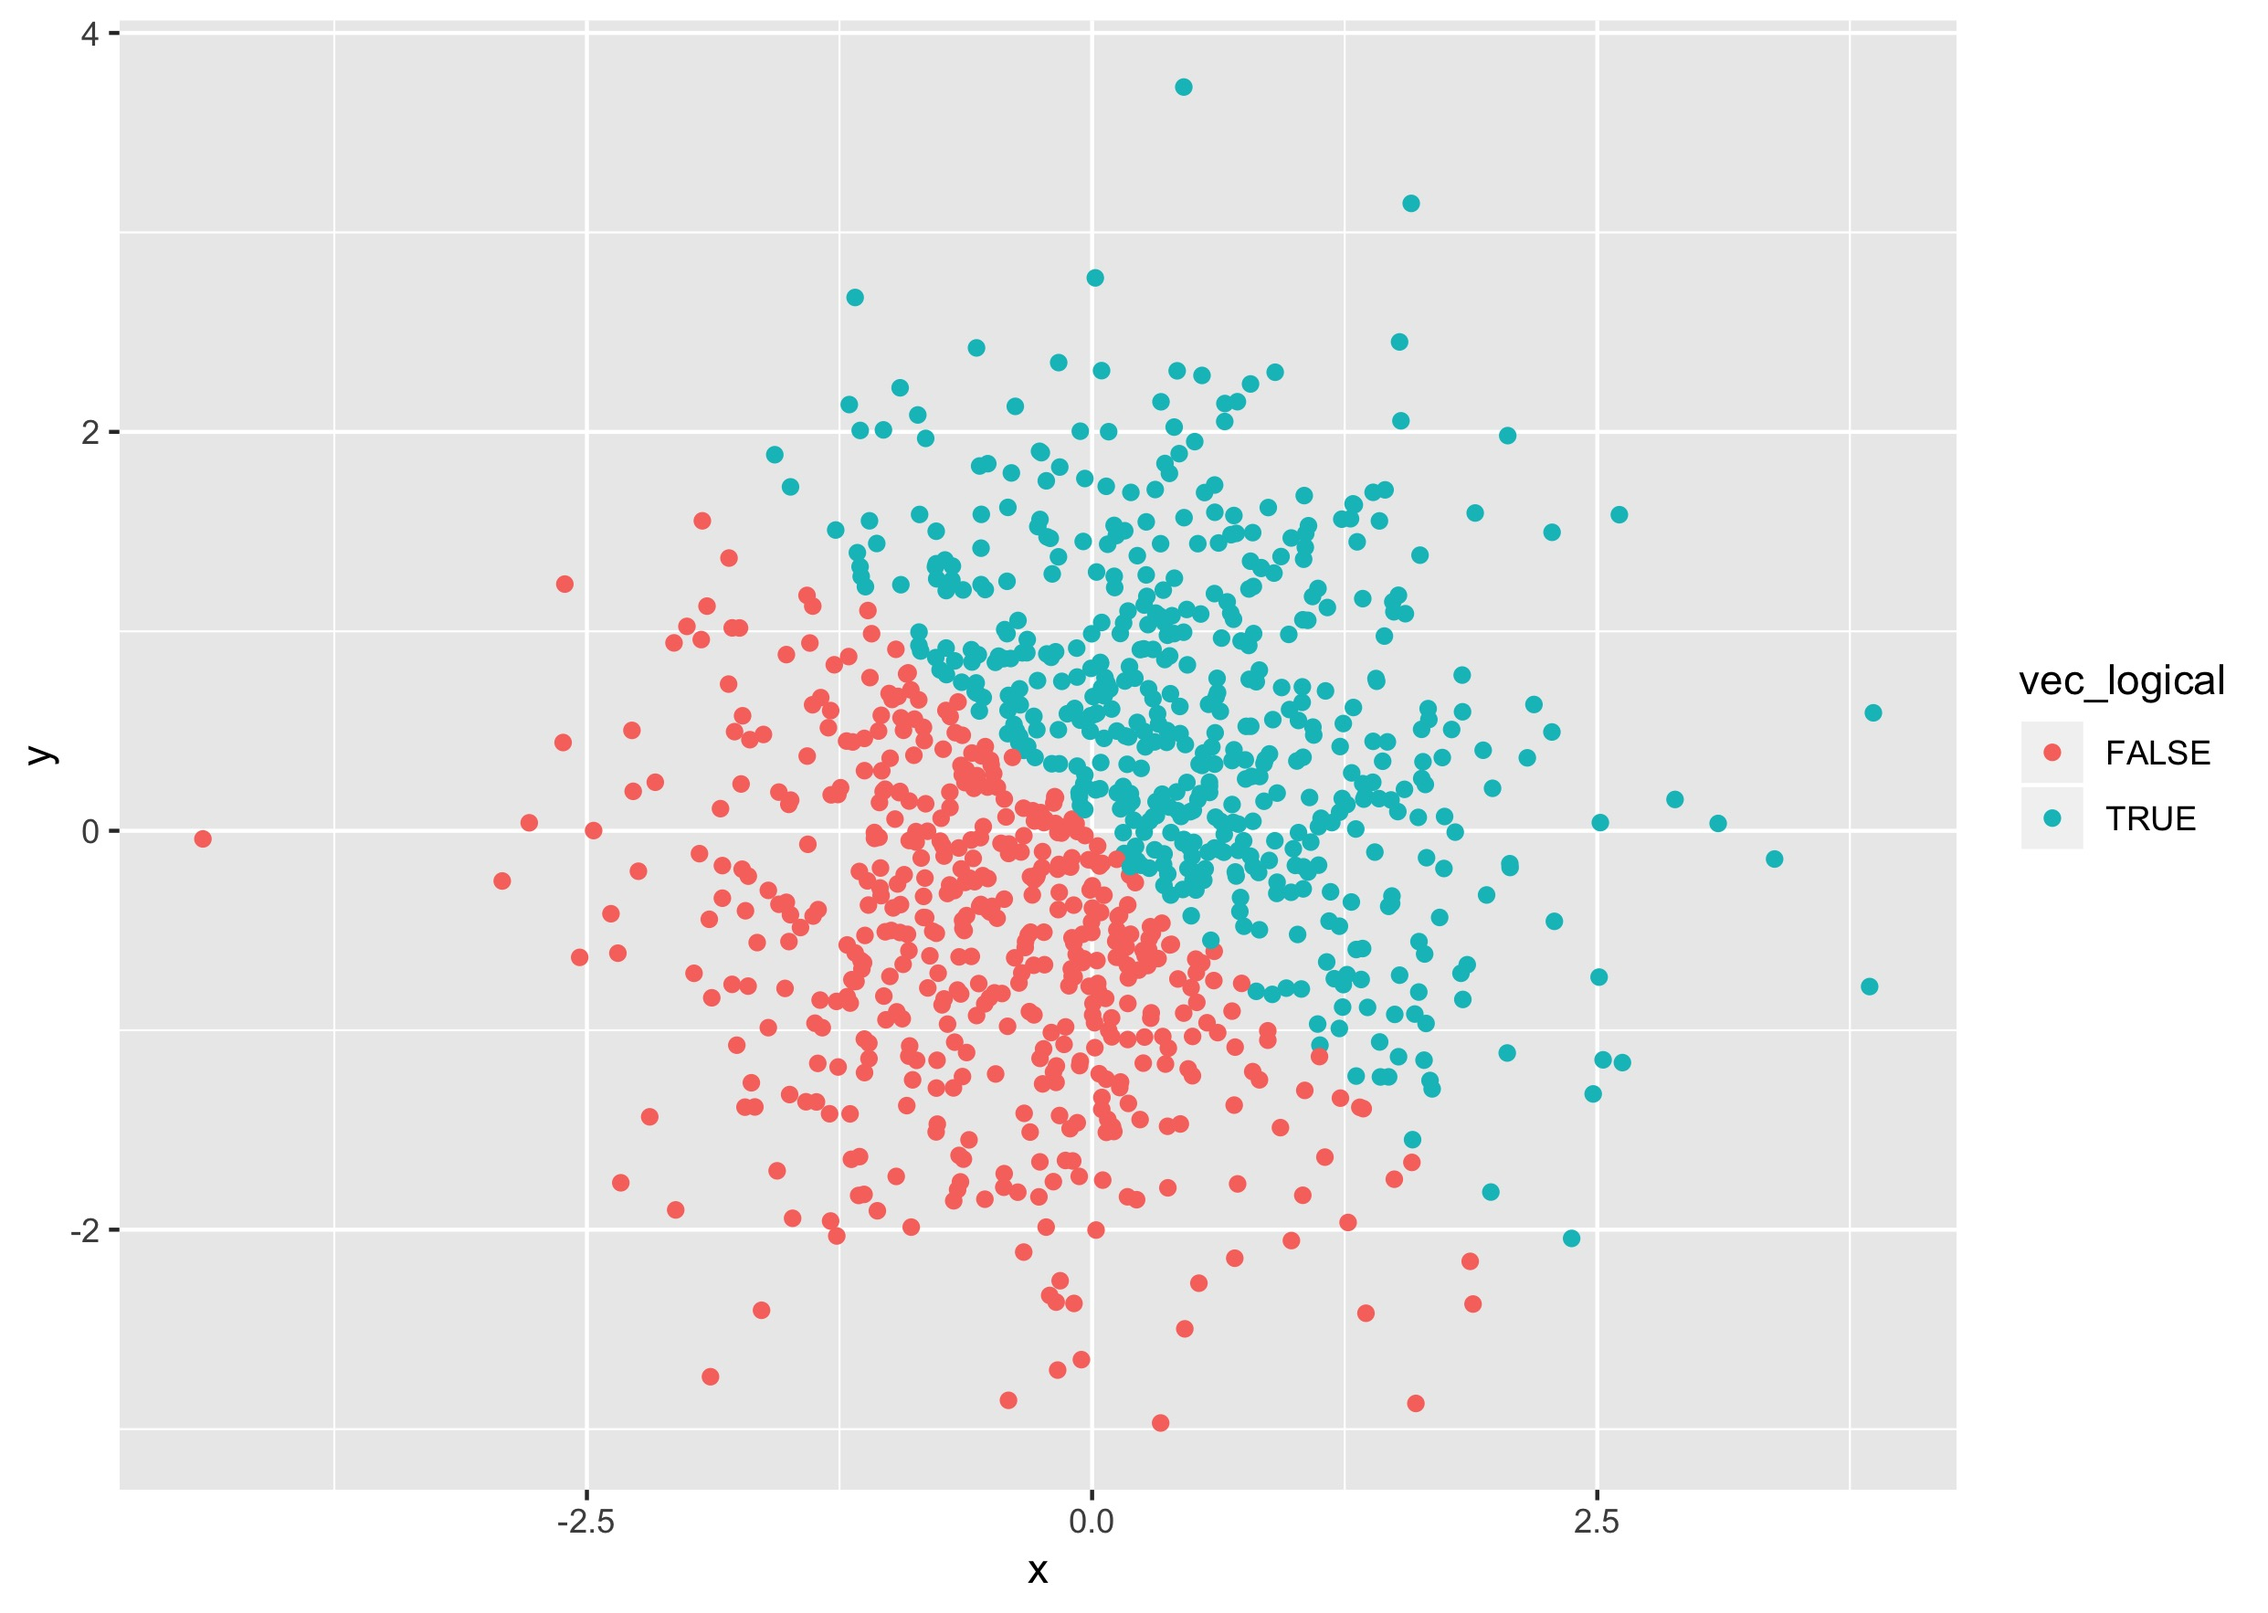
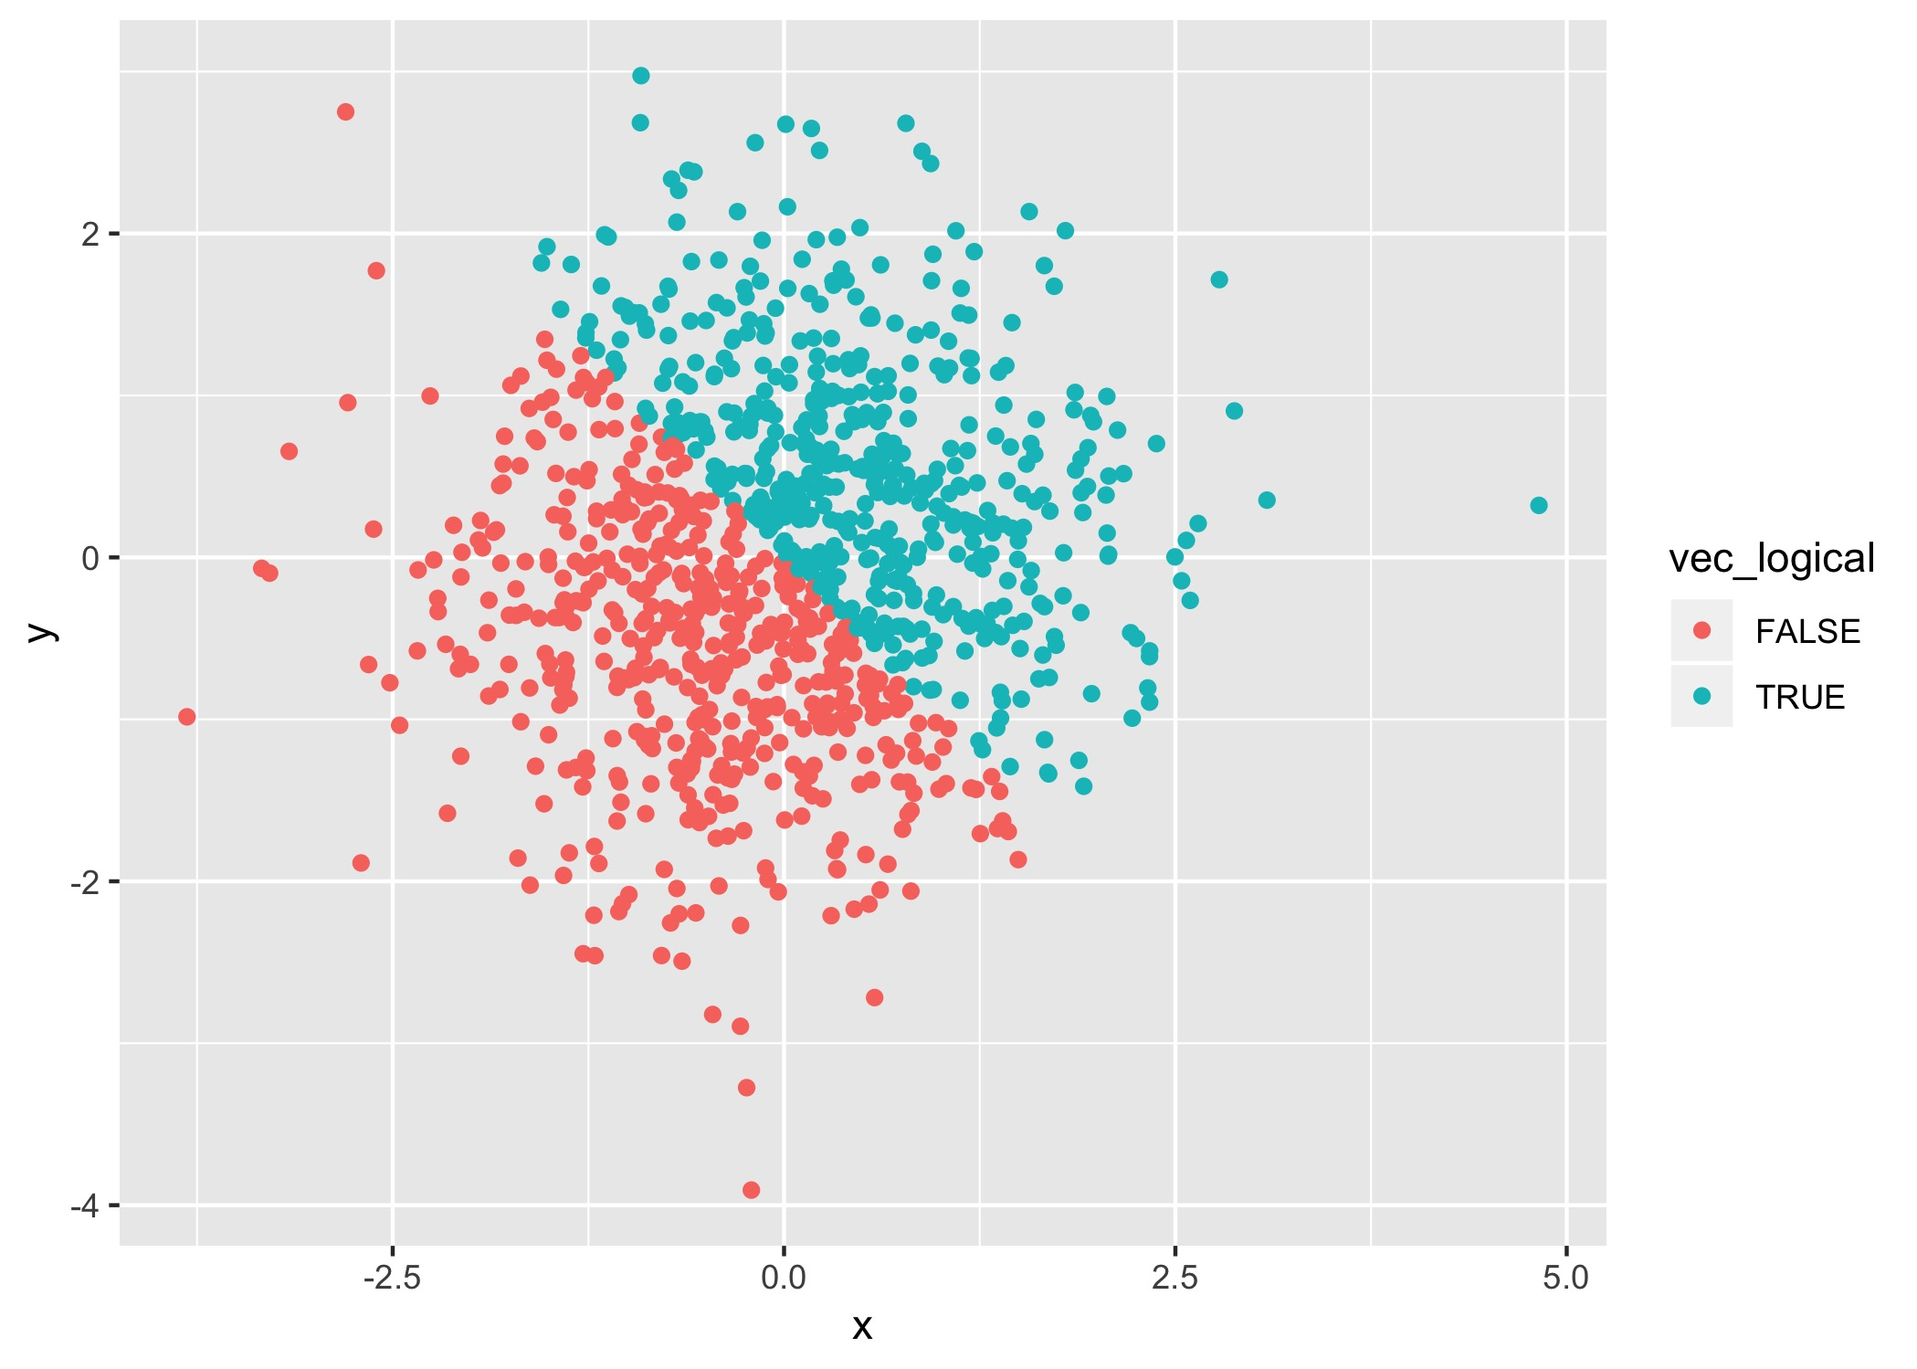
Fix some bugs.

diff --git a/p8105_hw1_lz2586.md b/p8105_hw1_lz2586.md
@@ -1,0 +1,71 @@
+P8105\_hw1\_lz586
+================
+Lyuou Zhang
+9/16/2018
+
+## Problem 1
+
+``` r
+df = tibble(
+  r_samp = runif(10, min = 0, max = 5), 
+  vec_logical = r_samp>2,
+  vec_char = c('a','b','c','d','e','f','g','h','i','j'),
+  vec_factor = factor(c('a','b','c','d','e','f','g','h','i','j'))
+  )
+mean(df$r_samp)
+```
+
+    ## [1] 2.849816
+
+``` r
+mean(df$vec_logical)
+```
+
+    ## [1] 0.6
+
+``` r
+mean(df$vec_char)
+```
+
+    ## Warning in mean.default(df$vec_char): argument is not numeric or logical:
+    ## returning NA
+
+    ## [1] NA
+
+``` r
+mean(df$vec_factor)
+```
+
+    ## Warning in mean.default(df$vec_factor): argument is not numeric or logical:
+    ## returning NA
+
+    ## [1] NA
+
+I created the data frame called “df” as asked. I am able to take the
+mean of the variable “r\_samp” and “vec\_logical” but not “vec\_char”
+and “vec\_factor”. The reason is that R is only able to take the mean
+for numeric and logical variables.
+
+## Problem 2
+
+``` r
+df2 <- tibble(
+  x = rnorm(1000),
+  y = rnorm(1000),
+  vec_logical = x + y > 0,
+  vec_num = as.numeric(vec_logical),
+  vec_factor = as.factor(vec_logical)
+)
+```
+
+The size of the data frame is 1000, 5.  
+The mean of variable x is -0.0404462.  
+The median of variable x is -0.0325575.  
+The proportion of cases for which the logical vector is TRUE is
+0.494.
+
+![](p8105_hw1_lz2586_files/figure-gfm/problem_2_cont-1.png)<!-- -->
+
+    ## Saving 7 x 5 in image
+
+![](p8105_hw1_lz2586_files/figure-gfm/problem_2_cont-2.png)<!-- -->![](p8105_hw1_lz2586_files/figure-gfm/problem_2_cont-3.png)<!-- -->
